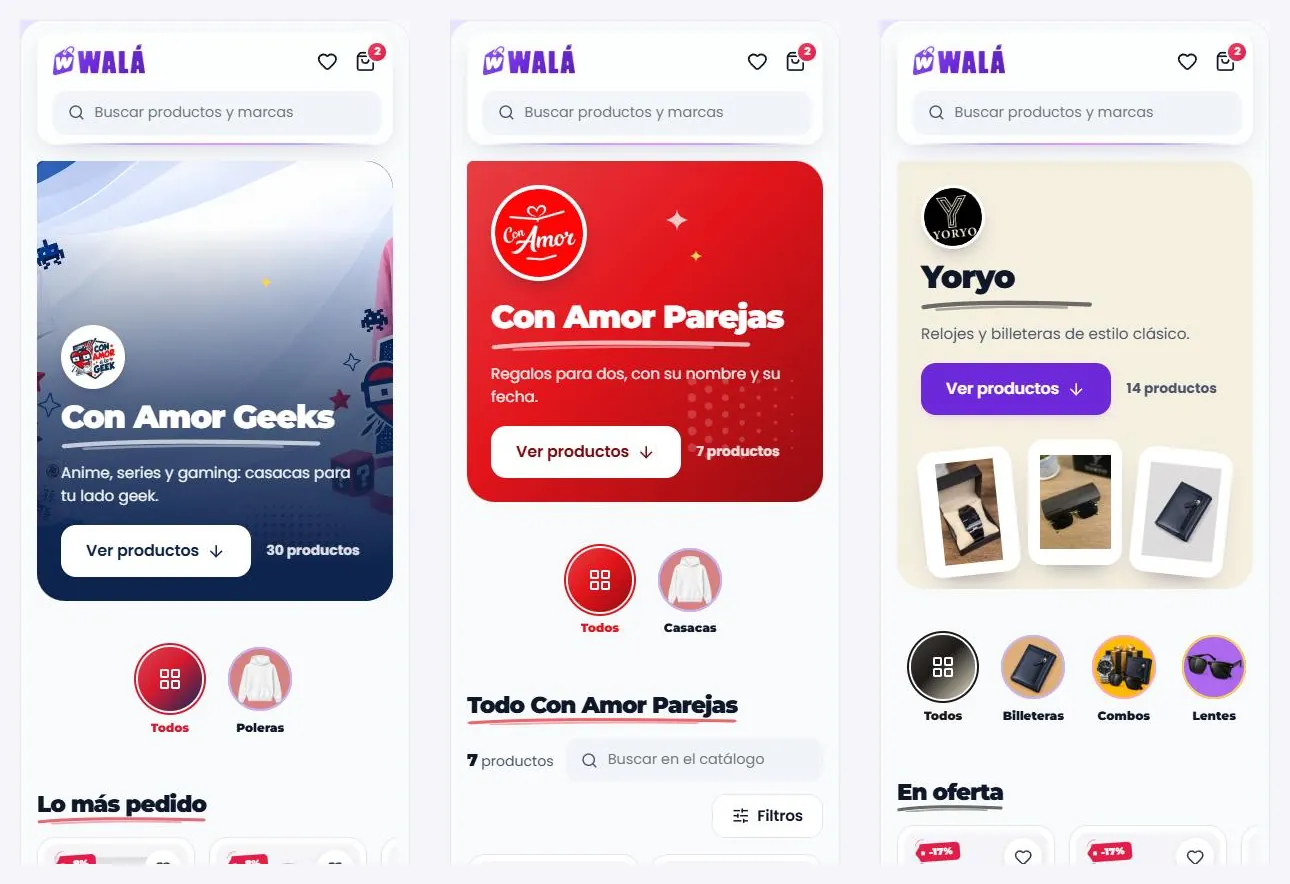
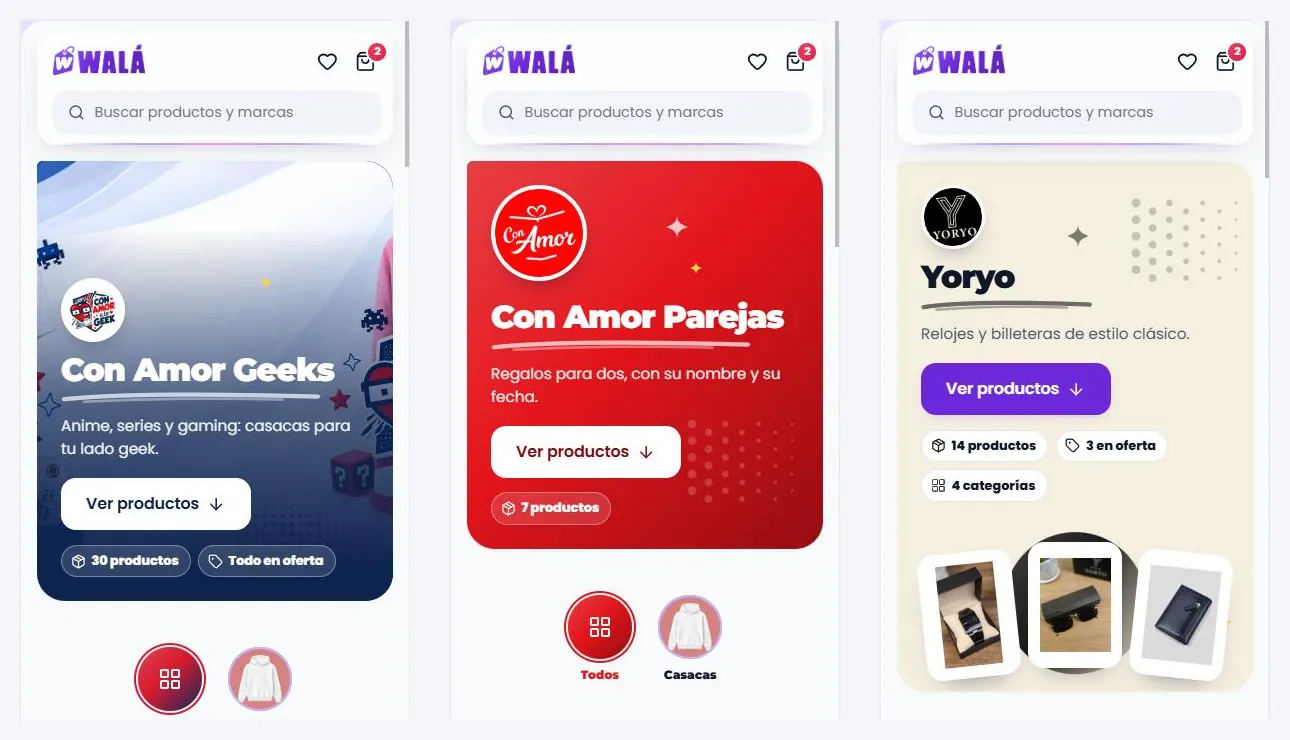
Página de marca: más diseño en la portada y los combos con sus piezas
- PortadaMarca: las cifras de la marca en sellos (productos, en oferta o
  "Todo en oferta", categorías); en el collage, el sello grande de la marca
  detrás de las cartas y puntos y destellos de su color.
- plantillaDeMarca: las filas más juntas (1 rem arriba, 1,5 abajo).
- Demo: los 3 combos de Yoryo traen sus comboItems reales (salían sin foto
  en "En oferta" y el catálogo).
- NAVEGAR.md, kit/README.md y capturas al día.

diff --git a/src/componentes/kit/piezas/PortadaMarca.jsx b/src/componentes/kit/piezas/PortadaMarca.jsx
@@ -1,5 +1,5 @@
 import React from 'react';
-import { ArrowDown } from 'lucide-react';
+import { ArrowDown, Package, Tag, LayoutGrid } from 'lucide-react';
 import Boton from '../Boton';
 import { Trazo, Puntos, Destello } from '../Marca';
 import { toDirectImageUrl } from '../../../utils/imageUrl';
@@ -19,16 +19,22 @@ const BOTON_BLANCO = { '--b-fondo': '#fff', '--b-fondo-hover': '#fff', '--b-text
  *  - 'collage': un fondo tenue de la marca y tres de sus productos como
  *    cartas un poco giradas.
  * Siempre: el logo en su sticker, el nombre con su trazo, la frase, "Ver
- * productos" (baja al catálogo) y cuántos productos tiene.
+ * productos" (baja al catálogo) y sus cifras en sellos (productos, en
+ * oferta, categorías; las que son 0 no salen).
  *  - nombre, logo, frase · estilo · imagen (foto) · fotos (collage)
- *  - cuenta · urlBoton ('#catalogo') · textoBoton
+ *  - cuenta · ofertas · categorias (números) · urlBoton ('#catalogo') · textoBoton
  */
 export function PortadaMarca({
-  nombre, logo, frase, estilo = 'color', imagen, fotos = [], cuenta, urlBoton = '#catalogo', textoBoton = 'Ver productos',
+  nombre, logo, frase, estilo = 'color', imagen, fotos = [], cuenta, ofertas, categorias, urlBoton = '#catalogo', textoBoton = 'Ver productos',
 }) {
   // Sin su foto, la portada de foto cae en la de color (nunca una caja vacía).
   const tipo = estilo === 'foto' && imagen ? 'foto' : estilo === 'collage' && fotos.length ? 'collage' : 'color';
   const sobreColor = tipo !== 'collage';
+  const cifras = [
+    cuenta > 0 && { icono: Package, texto: cuenta === 1 ? '1 producto' : `${cuenta} productos` },
+    ofertas > 0 && { icono: Tag, texto: ofertas >= cuenta ? 'Todo en oferta' : `${ofertas} en oferta` },
+    categorias > 1 && { icono: LayoutGrid, texto: `${categorias} categorías` },
+  ].filter(Boolean);
   const sticker = (grande) => (
     <span className={[s.logo, grande && s.logoGrande].filter(Boolean).join(' ')}>
       {logo ? <img src={toDirectImageUrl(logo)} alt={grande ? '' : `Logo de ${nombre}`} loading="eager" decoding="async" /> : <strong>{iniciales(nombre) || '?'}</strong>}
@@ -37,13 +43,11 @@ export function PortadaMarca({
   return (
     <section className={[s.portada, s[`p_${tipo}`]].join(' ')} data-componente="PortadaMarca" aria-label={nombre}>
       {tipo === 'foto' && <img className={s.fondo} src={toDirectImageUrl(imagen)} alt="" loading="eager" decoding="async" />}
-      {sobreColor && (
-        <span className={s.adornos} aria-hidden="true">
-          <Puntos className={s.puntos} />
-          <Destello className={s.destello1} />
-          <Destello className={s.destello2} />
-        </span>
-      )}
+      <span className={s.adornos} aria-hidden="true">
+        <Puntos className={s.puntos} />
+        <Destello className={s.destello1} />
+        <Destello className={s.destello2} />
+      </span>
       <div className={s.texto}>
         {tipo !== 'color' && sticker(false)}
         <h1 className={s.nombre}>
@@ -61,12 +65,19 @@ export function PortadaMarca({
           >
             {textoBoton}
           </Boton>
-          {cuenta > 0 && <span className={s.cuenta}>{cuenta === 1 ? '1 producto' : `${cuenta} productos`}</span>}
         </div>
+        {cifras.length > 0 && (
+          <ul className={s.cifras}>
+            {cifras.map(({ icono: Icono, texto }) => (
+              <li key={texto} className={s.cifra}><Icono aria-hidden="true" />{texto}</li>
+            ))}
+          </ul>
+        )}
       </div>
       {tipo === 'color' && <div className={s.lado}>{sticker(true)}</div>}
       {tipo === 'collage' && (
         <div className={s.lado} aria-hidden="true">
+          <span className={s.disco} />
           <div className={s.collage}>
             {fotos.slice(0, 3).map((f, i) => <FotoProducto key={`${f}-${i}`} className={s.carta} src={f} relleno="8%" style={{ '--i': i }} />)}
           </div>

diff --git a/src/componentes/kit/piezas/PortadaMarca.module.css b/src/componentes/kit/piezas/PortadaMarca.module.css
@@ -69,7 +69,7 @@
   color: var(--color-text);
 }
 
-/* ── Adornos (quietos) ── */
+/* ── Adornos (quietos): blancos sobre el color, del color de la marca en el collage ── */
 .adornos {
   position: absolute;
   z-index: -1;
@@ -107,6 +107,26 @@
 .p_foto .puntos,
 .p_foto .destello1 {
   display: none;
+}
+
+.p_collage .puntos {
+  top: 6%;
+  right: 2%;
+  bottom: auto;
+  color: color-mix(in srgb, var(--tema-acento, var(--primary-color)) 22%, transparent);
+}
+
+.p_collage .destello1 {
+  top: 12%;
+  right: 46%;
+  color: var(--tema-acento, var(--primary-color));
+  opacity: 0.55;
+}
+
+.p_collage .destello2 {
+  top: auto;
+  right: 6%;
+  bottom: 12%;
 }
 
 /* ── El texto ── */
@@ -193,15 +213,43 @@
   margin-top: 0.35rem;
 }
 
-.cuenta {
-  font-size: 0.86rem;
-  font-weight: 700;
-  opacity: 0.85;
+/* Las cifras de la marca en sellos. */
+.cifras {
+  display: flex;
+  flex-wrap: wrap;
+  gap: 0.45rem;
+  margin: 0.15rem 0 0;
+  padding: 0;
+  list-style: none;
 }
 
-.p_collage .cuenta {
-  color: var(--color-text-muted);
-  opacity: 1;
+.cifra {
+  display: inline-flex;
+  align-items: center;
+  gap: 0.35rem;
+  padding: 0.32rem 0.7rem 0.32rem 0.55rem;
+  border: 1px solid rgba(255, 255, 255, 0.35);
+  border-radius: 999px;
+  background: rgba(255, 255, 255, 0.14);
+  font-size: 0.8rem;
+  font-weight: 800;
+  white-space: nowrap;
+}
+
+.cifra svg {
+  width: 15px;
+  height: 15px;
+  flex-shrink: 0;
+}
+
+.p_collage .cifra {
+  border-color: var(--color-border);
+  background: var(--color-surface);
+  color: var(--color-text);
+}
+
+.p_collage .cifra svg {
+  color: var(--tema-acento, var(--primary-color));
 }
 
 /* ── El lado derecho (logo grande o collage) ── */
@@ -225,7 +273,20 @@
   }
 }
 
+/* El sello grande de la marca detrás de las cartas. */
+.disco {
+  position: absolute;
+  top: 50%;
+  left: 50%;
+  width: min(78%, 300px);
+  aspect-ratio: 1;
+  border-radius: 50%;
+  background: var(--degradado-logo);
+  transform: translate(-50%, -50%) rotate(-8deg);
+}
+
 .collage {
+  position: relative;
   display: grid;
   grid-template-columns: repeat(3, minmax(0, 1fr));
   align-items: center;
@@ -254,6 +315,15 @@
   .collage {
     width: 100%;
     margin-top: 0.25rem;
+  }
+
+  .p_collage .lado {
+    padding-top: 1rem;
+  }
+
+  .disco {
+    top: calc(50% + 0.5rem);
+    width: min(46%, 170px);
   }
 }
 

diff --git a/src/componentes/kit/adaptadores.js b/src/componentes/kit/adaptadores.js
@@ -1124,13 +1124,16 @@ export function identidadDeMarca(marca = {}) {
 /** La forma de la página de una marca mientras carga (EsqueletoPagina secciones). */
 export const ESQUELETO_MARCA = ['hero_banner', 'categories_nav', 'featured_carousel', 'sidebar_catalog'];
 
+/** Las filas de la página de una marca van más juntas que las del inicio (es una sola marca). */
+const JUNTAS = { paddingTop: '1rem', paddingBottom: '1.5rem' };
+
 export function plantillaDeMarca({ brandId, nombre = '', bloques = BLOQUES_MARCA, hayDestacados = true, hayOfertas = true } = {}) {
   const pedidas = new Set(bloques);
   const secciones = [
     pedidas.has('categorias') && { type: 'categories_nav', settings: { brandId } },
-    pedidas.has('destacados') && hayDestacados && { type: 'featured_carousel', settings: { title: 'Lo más pedido', titleUnderline: true, visibleItems: 5 } },
-    pedidas.has('ofertas') && hayOfertas && { type: 'sale_carousel', settings: { title: 'En oferta', titleUnderline: true, visibleItems: 5 } },
-    pedidas.has('catalogo') && { type: 'sidebar_catalog', settings: { title: nombre ? `Todo ${nombre}` : 'Todos los productos', titleUnderline: true, brandId, anchorId: 'catalogo' } },
+    pedidas.has('destacados') && hayDestacados && { type: 'featured_carousel', settings: { title: 'Lo más pedido', titleUnderline: true, visibleItems: 5, ...JUNTAS } },
+    pedidas.has('ofertas') && hayOfertas && { type: 'sale_carousel', settings: { title: 'En oferta', titleUnderline: true, visibleItems: 5, ...JUNTAS } },
+    pedidas.has('catalogo') && { type: 'sidebar_catalog', settings: { title: nombre ? `Todo ${nombre}` : 'Todos los productos', titleUnderline: true, brandId, anchorId: 'catalogo', ...JUNTAS } },
   ].filter(Boolean);
   return secciones.map((sec, k) => ({ id: `marca-${sec.type}`, order: k + 1, ...sec }));
 }

diff --git a/src/componentes/kit/paginas/Marca.jsx b/src/componentes/kit/paginas/Marca.jsx
@@ -95,6 +95,8 @@ export function PaginaMarca({ marca = {}, identidad, secciones, productos = {}, 
             imagen={id.imagen}
             fotos={fotos}
             cuenta={todos.length}
+            ofertas={(productos.ofertas || []).length}
+            categorias={(resto.categorias || []).length}
           />
         </BloqueSeccion>
       )}

diff --git a/src/componentes/kit/guia/NAVEGAR.md b/src/componentes/kit/guia/NAVEGAR.md
@@ -86,15 +86,16 @@ la de hoy) y los estados (cargando, error, sin productos).
 logo y la foto de Con Amor Geeks es la de su landing real, pero en
 `tienda_brands` todavía no existe `identidad` (todas tienen `bgColor`
 blanco). Las frases también son de ejemplo. Los productos y las burbujas sí
-son reales.
+son reales (los combos de Yoryo traen sus piezas, `comboItems`, copiadas
+de `productos_wala` el 2026-10-16: sin ellas la tarjeta salía sin foto).
 
 ### Partes
 
 | Parte | Componente | Qué hace |
 |---|---|---|
 | El color | `TemaMarca` (`temaDeMarca`) | Cambia solo los acentos: el degradado de los sellos y del "Todos", el trazo bajo los títulos, el aro de la burbuja elegida y los chips activos. Los botones de compra, la cabecera, el pie y Kapi siguen violeta. |
-| La portada | `PortadaMarca` | Logo en sello girado, el nombre con trazo, la frase, "Ver productos" (baja al catálogo) y cuántos productos. Tres estilos: `foto` (la foto de fondo con el color de la marca detrás del texto), `color` (el degradado de la marca con el logo grande) y `collage` (fondo tenue con tres productos en cartas giradas). |
-| Las secciones | `plantillaDeMarca` | `categories_nav` (las burbujas curadas, `navDeMarca`), `featured_carousel` "Lo más pedido", `sale_carousel` "En oferta" y `sidebar_catalog` "Todo {marca}" con `anchorId: 'catalogo'`. Sin destacados o sin ofertas, esa fila no sale. |
+| La portada | `PortadaMarca` | Logo en sello girado, el nombre con trazo, la frase, "Ver productos" (baja al catálogo) y sus cifras en sellos: productos, en oferta ("Todo en oferta" si lo están todos) y categorías (las que son 0, o una sola categoría, no salen). Tres estilos: `foto` (la foto de fondo con el color de la marca detrás del texto), `color` (el degradado de la marca con el logo grande) y `collage` (fondo tenue con tres productos en cartas giradas sobre el sello grande de la marca, con puntos y destellos de su color). |
+| Las secciones | `plantillaDeMarca` | `categories_nav` (las burbujas curadas, `navDeMarca`), `featured_carousel` "Lo más pedido", `sale_carousel` "En oferta" y `sidebar_catalog` "Todo {marca}" con `anchorId: 'catalogo'`. Sin destacados o sin ofertas, esa fila no sale. Las filas van más juntas que en el inicio (1 rem arriba, 1,5 abajo). |
 | La página | `PaginaMarca` | `PaginaTienda` con la portada (`antes`) y el tema (`tema`). Si la marca ya tiene secciones propias (una landing del builder), mandan esas; la portada sale solo si no traen `hero_banner` ni `hero_carousel`. |
 
 Esqueleto: `EsqueletoPagina secciones={ESQUELETO_MARCA}` (portada, burbujas,

diff --git a/src/componentes/kit/README.md b/src/componentes/kit/README.md
@@ -158,7 +158,7 @@ import { ProveedorEnlaces, ProveedorToasts } from '../componentes/kit';
 | `Seccion.jsx` | `BloqueSeccion`, `TituloSeccion`, `tituloDesdeAjustes` | Relleno, fondo y título iguales en todas las secciones |
 | `piezas/TarjetaCategoria.jsx` | `TarjetaCategoria` (cuadro · círculo · burbuja; el cuadro lleva `detalle`, una línea de texto bajo el nombre), `TarjetaCategoriaEsqueleto` | category_grid y categories_nav |
 | `piezas/TemaMarca.jsx` | `TemaMarca`, `temaDeMarca` | El color de una marca en los acentos (sellos, "Todos", trazos, chips y aros) con su versión de noche; los botones de compra siguen violeta |
-| `piezas/PortadaMarca.jsx` | `PortadaMarca` | La portada de una marca: logo, nombre con trazo, frase y "Ver productos"; estilo foto · color · collage |
+| `piezas/PortadaMarca.jsx` | `PortadaMarca` | La portada de una marca: logo, nombre con trazo, frase, "Ver productos" y sus cifras en sellos (productos, en oferta, categorías); estilo foto · color · collage (con el sello grande de la marca detrás de las cartas) |
 | `paginas/Marca.jsx` | `PaginaMarca` | La página de una marca sin armarla: identidad + plantilla, o sus secciones del builder (guía: `guia/NAVEGAR.md`) |
 | `piezas/FotoProducto.jsx` | `FotoProducto` | Foto de producto sobre su escenario (`src`, `relleno`, `respaldo` sin foto, `children` encima) |
 | `piezas/Avatar.jsx` | `Avatar`, `iniciales` | Foto o iniciales de una persona |
